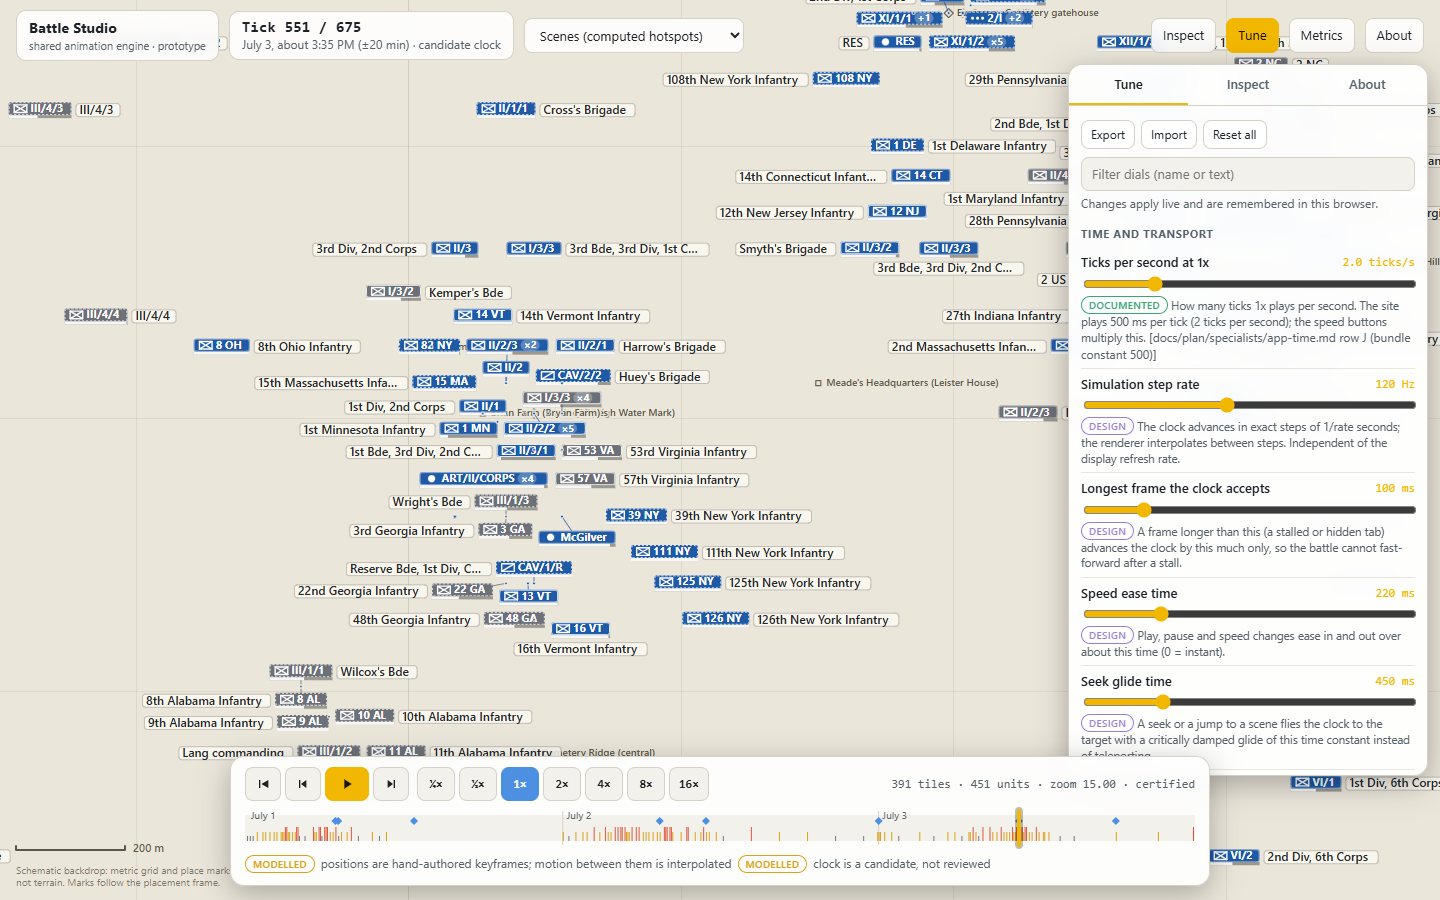
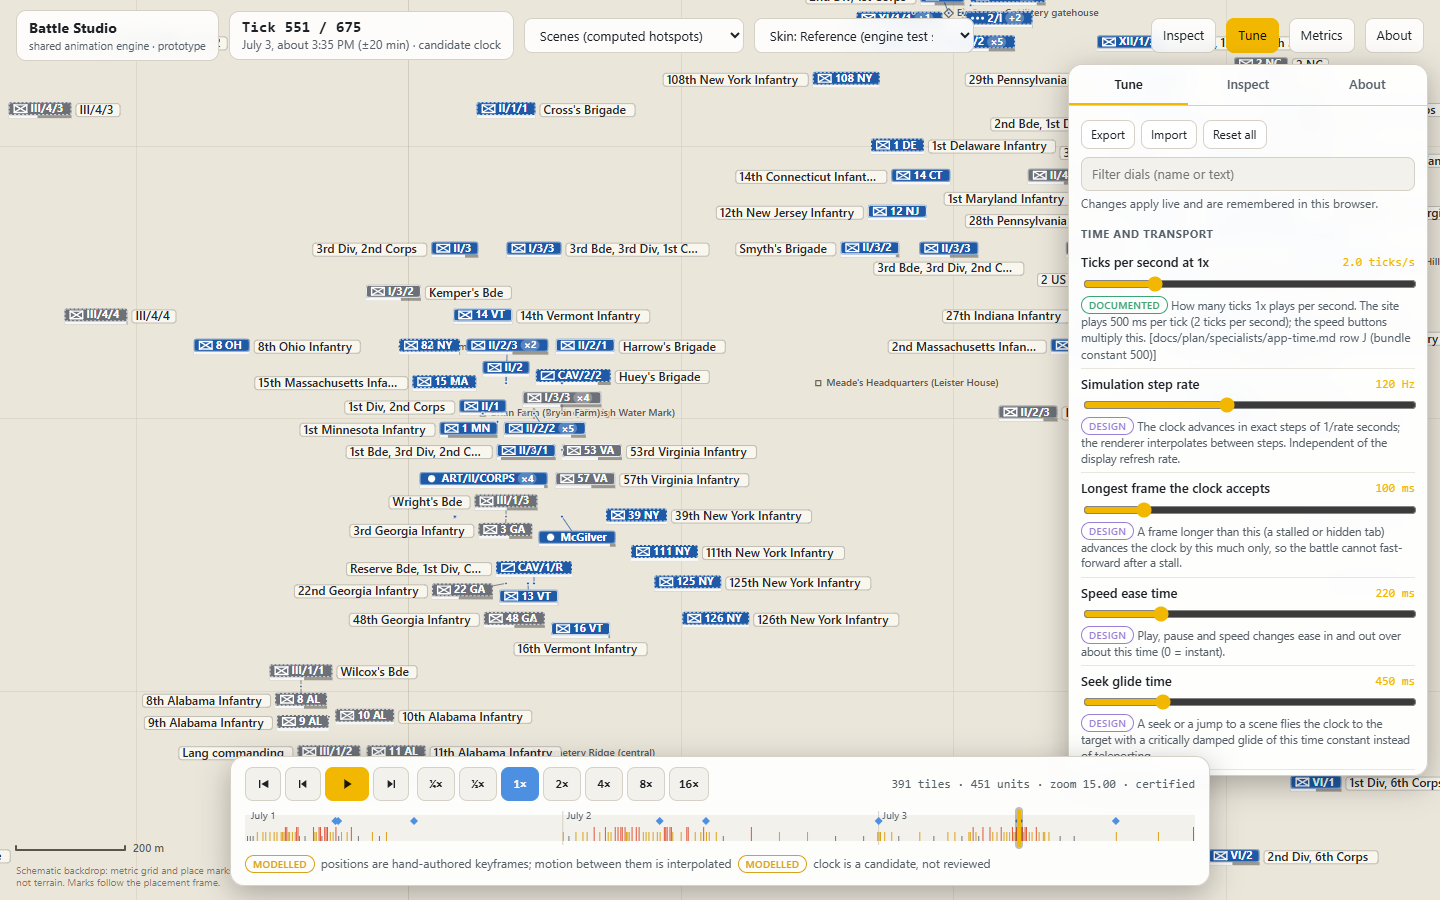
pitch-anim prototype: soak and monkey tests, skin switch, popup template with reading-time cards, stuck-tile guard, README numbers

Changed region(s): [[0.5, 0.0, 0.6875, 0.0622]]

diff --git a/docs/pitch/anim/prototype/battle-studio.html b/docs/pitch/anim/prototype/battle-studio.html
@@ -26,7 +26,8 @@ html, body { margin: 0; height: 100%; background: var(--bg); color: var(--text);
 button, select, input { font: inherit; color: inherit; }
 button { cursor: pointer; }
 :focus-visible { outline: 2px solid var(--accent); outline-offset: 2px; border-radius: 6px; }
-#app { position: fixed; inset: 0; }
+#app { position: fixed; inset: 0; user-select: none; -webkit-user-select: none; }
+.pane, #metrics, .scrubtip { user-select: text; -webkit-user-select: text; }
 #map { position: absolute; inset: 0; display: block; touch-action: none; cursor: grab; outline: none; }
 #map.dragging { cursor: grabbing; } #map.over-tile { cursor: pointer; }
 #popups { position: absolute; inset: 0; pointer-events: none; }
@@ -105,6 +106,7 @@ select.btn { padding-right: 24px; max-width: 220px; }
   #topbar { flex-wrap: wrap; gap: 6px; padding: 8px var(--gutter); }
   .brand, .spacer, .dockstat { display: none; }
   .clockbox { flex: 1 1 100%; padding: 5px 10px; } .clockbox .tick { font-size: 14px; }
+  #topbar select.skin-sel { display: none; }
   #topbar select.btn { flex: 1 1 0; min-width: 0; padding: 6px 22px 6px 8px; font-size: 12px; max-width: none; }
   #topbar .btn:not(select) { padding: 6px 9px; font-size: 12px; }
   #dock { bottom: 8px; padding: 8px 10px 9px; width: calc(100% - 2 * var(--gutter)); }
@@ -1257,10 +1259,12 @@ class Display {
       if (d.life === 'live' && !still) {
         const dist = Math.hypot(d.tx - d.ox, d.ty - d.oy);
         if (!d.dim && dist > travelPx) { d.dim = true; stats.travels++; }
-        if (d.dim && dist < 1.2 && d.mv <= dimOp + 1e-6 && !this._blocked(d, spec)) d.dim = false;
+        if (d.dim && dist < 1.2 && d.mv <= dimOp + 1e-6) {                                       // arrived: solidify as soon as nothing solid is in the way
+          if (!this._blocked(d, spec)) d.dim = false; else { d.waitMs = (d.waitMs || 0) + dtMs; if (d.waitMs > 400) d.dim = false; }   // a blocker that never leaves is pushed or repaired, not waited for
+        } else d.waitMs = 0;
         if (d.dim) d.mv = Math.max(dimOp, d.mv - dt * (1 - dimOp) / (DIM_MS / 1000));
         else d.mv = Math.min(1, d.mv + dt / (RAMP_MS / 1000));
-      } else d.mv = 1;
+      } else { d.mv = 1; d.dim = false; }
       d.opacity = base * d.mv;
       if (d.life === 'live' && d.dim && d.opacity >= SOLID) moving = false;          // a solid tile that decides to travel first dims below 0.5, then moves
       d.scale = (d.born || d.life === 'dying') ? birthScale + (1 - birthScale) * clamp01(base) : 1;
@@ -2345,7 +2349,7 @@ function createEngine(o) {
     camStep(dtSec);
     const zoom = camera.zoom;
     const first = E.frames === 0;
-    const cut = forceCut || (!first && (Math.abs(transport.simTau - prevTau) > tok('motion.cutTickJump') || Math.abs(zoom - prevZoom) > tok('motion.cutZoomJump')));
+    const cut = forceCut || (!first && ((Math.abs(transport.simTau - prevTau) > tok('motion.cutTickJump') && !transport.gliding) || Math.abs(zoom - prevZoom) > tok('motion.cutZoomJump')));
     forceCut = false; prevTau = transport.simTau; prevZoom = zoom;
     if (cut) { layoutMod.reset(); lastL = null; }
     const vis = battle.visibleAt(tau);
@@ -2507,6 +2511,9 @@ function createStudioUI({ root, engine, data, onSafe }) {
   // ---- top bar -------------------------------------------------------------------------------------------------------------------------------
   const sceneSel = h('select', { class: 'btn', 'aria-label': 'Jump to a scene', onchange: () => { const s = data.scenes.find((x) => x.id === sceneSel.value); if (s) { onSafe && onSafe(); engine.sceneJump(s); engine.select(null); } sceneSel.value = ''; } },
     h('option', { value: '' }, 'Scenes (computed hotspots)'), ...data.scenes.map((s) => h('option', { value: s.id }, `${s.name} · tick ${s.tick}`)));
+  const skinSel = h('select', { class: 'btn skin-sel', 'aria-label': 'Skin', title: 'Skin: the registry of tile designs (Tune > Skin has the same switch)', onchange: () => { try { tuning.set('skin.id', skinSel.value); } catch (e) { ui.status = String(e.message); } } });
+  const syncSkins = () => { skinSel.replaceChildren(...kernel.skins.list().map((k) => h('option', { value: k.id, selected: k.id === tok('skin.id') }, 'Skin: ' + k.label))); if (!kernel.skins.size) skinSel.append(h('option', { value: '' }, 'Skin: none registered')); };
+  kernel.skins.subscribe(syncSkins); tuning.on('skin.id', syncSkins); syncSkins();
   el.tick = h('div', { class: 'tick' }, 'Tick 1 / 675'); el.clock = h('div', { class: 'clock' }, '');
   el.btnTune = h('button', { class: 'btn', 'aria-pressed': 'false', title: 'Tuning Studio (T)', onclick: () => togglePanel('tune') }, 'Tune');
   el.btnInspect = h('button', { class: 'btn', 'aria-pressed': 'false', title: 'Inspector (I)', onclick: () => togglePanel('inspect') }, 'Inspect');
@@ -2514,7 +2521,7 @@ function createStudioUI({ root, engine, data, onSafe }) {
   el.btnAbout = h('button', { class: 'btn', 'aria-pressed': 'false', title: 'Legend and honesty (A)', onclick: () => togglePanel('about') }, 'About');
   const topbar = h('header', { id: 'topbar' },
     h('div', { class: 'brand' }, h('b', null, 'Battle Studio'), h('span', null, 'shared animation engine · prototype')),
-    h('div', { class: 'clockbox', 'aria-live': 'off' }, el.tick, el.clock), sceneSel, h('div', { class: 'spacer' }), el.btnInspect, el.btnTune, el.btnMetrics, el.btnAbout);
+    h('div', { class: 'clockbox', 'aria-live': 'off' }, el.tick, el.clock), sceneSel, skinSel, h('div', { class: 'spacer' }), el.btnInspect, el.btnTune, el.btnMetrics, el.btnAbout);
 
   // ---- dock ----------------------------------------------------------------------------------------------------------------------------------
   el.play = h('button', { class: 'tbtn play', 'aria-label': 'Play', title: 'Play / pause (Space)', onclick: () => transport.toggle() }, svgIcon(ICON.play));
@@ -2679,7 +2686,7 @@ function createStudioUI({ root, engine, data, onSafe }) {
     el.play.setAttribute('aria-label', t.playing ? 'Pause' : 'Play'); const want = t.playing ? 'pause' : 'play'; if (el.play.dataset.state !== want) { el.play.dataset.state = want; el.play.replaceChildren(svgIcon(ICON[want])); }
     if (!ui.scrubbing) el.range.value = String(t.target ?? t.simTau);
     for (const b of speedBtns) b.setAttribute('aria-pressed', String(+b.dataset.speed === t.speed));
-    if (now - (ui._lastStat || 0) > 250) { ui._lastStat = now; el.dockstat.textContent = `${frame.tiles.filter((q) => q.life === 'live').length} tiles · ${frame.onField} units · zoom ${frame.zoom.toFixed(2)} · ${engine.kernel.layout.has(tok('layout.strategy')) ? tok('layout.strategy') : ''}`; const map = document.getElementById('map'); if (map) map.setAttribute('aria-label', `Schematic map of the Gettysburg battle: tick ${frame.tick} of 675, ${frame.clock.date}, about ${frame.clock.text} on a candidate clock; ${frame.onField} units shown as ${frame.tiles.filter((q) => q.life === 'live').length} tiles.`); }
+    if (now - (ui._lastStat || 0) > 250) { ui._lastStat = now; const zs = rowRefs.get('camera.zoom'); if (zs) zs(tok('camera.zoom')); el.dockstat.textContent = `${frame.tiles.filter((q) => q.life === 'live').length} tiles · ${frame.onField} units · zoom ${frame.zoom.toFixed(2)} · ${engine.kernel.layout.has(tok('layout.strategy')) ? tok('layout.strategy') : ''}`; const map = document.getElementById('map'); if (map) map.setAttribute('aria-label', `Schematic map of the Gettysburg battle: tick ${frame.tick} of 675, ${frame.clock.date}, about ${frame.clock.text} on a candidate clock; ${frame.onField} units shown as ${frame.tiles.filter((q) => q.life === 'live').length} tiles.`); }
     drawMetrics(now);
     if (ui.panelOpen && ui.tab === 'about') { const ab = el.pane.querySelector('#ab-ov'); if (ab) ab.textContent = String(engine.metrics.overlapPairs ?? 0); }
   };
@@ -2704,7 +2711,7 @@ __defs["src/popups/host.mjs"] = function (__exports, __r) {
 //     update(frame, api) -> [card]        called every frame; returns the cards that should be visible NOW
 //   })
 //   card = { key, anchor?: { tileKey } | { unitId } | { x, y } (screen px), size: { w, h }, priority?: number, render?(el) | html?: string, ttlMs?: number }
-//   api  = { tok, nowMs, viewport: { w, h }, tileRect(keyOrUnitId) -> {x0,y0,x1,y1}|null, obstacles: [{x0,y0,x1,y1}] }
+//   api  = { tok, nowMs (wall clock, ms), data (the dataset: events, vignettes, clock ...; read-only), viewport: { w, h }, tileRect(keyOrUnitId) -> {x0,y0,x1,y1}|null, obstacles: [{x0,y0,x1,y1}] }
 const { Hash } = __r("src/layout/geom.mjs");
 const { dampStep2 } = __r("src/interp/damp.mjs");
 
@@ -2750,7 +2757,7 @@ function placeCard({ w, h, anchor = null, obstacles, viewport, margin = 10, gap 
 function createPopupHost(engine) {
   const placed = new Map();       // key -> { x, y, vx, vy, tx, ty, w, h, born }
   const api = (frame, nowMs) => ({
-    tok: engine.tok, nowMs, viewport: { w: frame.view.w, h: frame.view.h }, obstacles: frameObstacles(frame),
+    tok: engine.tok, nowMs, data: engine.battle.ds, viewport: { w: frame.view.w, h: frame.view.h }, obstacles: frameObstacles(frame),
     tileRect(k) {
       const t = frame.tiles.find((q) => q.key === k || q.ids.includes(k)); if (!t) return null;
       const hw = t.w * t.scale / 2; const hh = t.h * t.scale / 2; return { x0: t.x + frame.view.dx - hw, y0: t.y + frame.view.dy - hh, x1: t.x + frame.view.dx + hw, y1: t.y + frame.view.dy + hh };

diff --git a/docs/pitch/anim/prototype/src/ui/studio.css b/docs/pitch/anim/prototype/src/ui/studio.css
@@ -18,7 +18,8 @@ html, body { margin: 0; height: 100%; background: var(--bg); color: var(--text);
 button, select, input { font: inherit; color: inherit; }
 button { cursor: pointer; }
 :focus-visible { outline: 2px solid var(--accent); outline-offset: 2px; border-radius: 6px; }
-#app { position: fixed; inset: 0; }
+#app { position: fixed; inset: 0; user-select: none; -webkit-user-select: none; }
+.pane, #metrics, .scrubtip { user-select: text; -webkit-user-select: text; }
 #map { position: absolute; inset: 0; display: block; touch-action: none; cursor: grab; outline: none; }
 #map.dragging { cursor: grabbing; } #map.over-tile { cursor: pointer; }
 #popups { position: absolute; inset: 0; pointer-events: none; }
@@ -97,6 +98,7 @@ select.btn { padding-right: 24px; max-width: 220px; }
   #topbar { flex-wrap: wrap; gap: 6px; padding: 8px var(--gutter); }
   .brand, .spacer, .dockstat { display: none; }
   .clockbox { flex: 1 1 100%; padding: 5px 10px; } .clockbox .tick { font-size: 14px; }
+  #topbar select.skin-sel { display: none; }
   #topbar select.btn { flex: 1 1 0; min-width: 0; padding: 6px 22px 6px 8px; font-size: 12px; max-width: none; }
   #topbar .btn:not(select) { padding: 6px 9px; font-size: 12px; }
   #dock { bottom: 8px; padding: 8px 10px 9px; width: calc(100% - 2 * var(--gutter)); }

diff --git a/docs/pitch/anim/prototype/README.md b/docs/pitch/anim/prototype/README.md
@@ -15,6 +15,8 @@ Open the file in Chrome, Edge or Firefox. `?tune=1` opens the Tuning Studio, `T`
 | Aggregate counts (`x5`), tile ages, scenes | computed here | **Computed** |
 | Backdrop | a metric grid and the 30 place marks of `terrain.json` | **schematic, not terrain**; Mapbox tiles are token-restricted |
 
+The whole battle is inlined (the brief allowed a window of ticks around the hotspots): the placements are only about 450 KB in this form, and a window would have cut the carried-forward history that the visibility rule needs.
+
 The place marks follow the frame of the placements (legacy `terrain.json`). Production `terrain.json` puts 8 of the 30 places 166 to 733 m elsewhere (computed in `data/build-dataset.mjs`, stored in the dataset); those 8 are drawn dashed and which frame is right is **Unknown**. `Gulp's Hill saddle` is shown as `Gulp's Hill saddle [sic]`: the source record's own text says Culp's Hill.
 
 ## 2. Architecture: one straight pipeline, no second code path
@@ -45,6 +47,7 @@ Measured with `node --test "docs/pitch/anim/prototype/test/*.test.mjs"` (`FULL=1
 
 - **4,725 cold solves** (all 675 ticks x zoom 11..17, carry-forward = the worst case): **0 overlapping pairs, 0 clearance violations, 0 unrepresented units, budget kept**; 1,576,932 unit-placements represented; slowest solve 124 ms (run on the final code, 3 min 13 s; the default `node --test` re-checks 242 solves plus 600 warm playback frames).
 - Playback of the six hardest scenes at 1x to 16x, with irregular frame times (5 to 45 ms), seeks, cuts, zoom animation, mode switches and reduced motion: **0 overlapping frames, 0 unrepresented units**.
+- A seeded **monkey test** (`test/fuzz.test.mjs`) drives the whole API with random play, pause, speed, seeks (glided and not), zoom, pan, selection, viewport sizes, scene jumps and random legal values of every dial, and checks on every frame: no exception, no overlap, no lost unit, unique keys, finite numbers, no tile stuck dimmed. A 30-seed run of 500 actions each (15,000 random actions, 11.8 min) passed on the code before the last guard was added, and 12 seeds x 500 actions (3.6 min) pass on the final code including the stuck-tile check; the default `node --test` runs 3 seeds x 220 actions.
 - The checkers are themselves checked: the verifier equals a brute force on 3,000 random sets and catches injected overlaps; `nearestFree` equals a fine brute-force scan on 150 scenes; a negative control (net off, pushing off) shows overlaps appear without the safety net.
 
 ## 4. The jitter: what it was, what changed, what is measured
@@ -78,11 +81,11 @@ The shipped renderer's causes (01-current-tiles-jitter.md) and what replaces the
 
 (pop = a tile that is solid in two frames and moves more than 3 px beyond its unit's own motion in one frame; teleport = more than 12 px; **snap** is the certified layout drawn as solved, the research lab's behaviour. A dimmed travelling tile is counted under "travels", it is not solid.) Honest reading: teleports are gone; what is left at 4x in the densest scene is a few smooth shoves per second and about ten dimmed glides per second (a lone tile at 0.42 opacity crossing a neighbour for about 150 ms), and the safety net dims a tile about five times per second. That is **not zero visual activity**; it is no hop, no overlap, no hidden unit, and every number is on screen in the metrics overlay.
 
-Real Chrome 155 (headless, this machine, 10 s each, `test/browser-check.mjs`; the JSON of every run is in `results/chrome-*.json`): **60 fps, 0 frames over 20 ms, 0 overlaps, 0 unrepresented units, 0 console errors, 0 requests** on `fresh2` at 4x (about 400 tiles, engine 6.7 ms per frame), `evening1` at 16x (4.4 ms), `field` at 4x (478 units, 5.8 ms) and `carry1` at 1x (5.9 ms). Under a **4x CPU throttle** (a harsh stand-in for a mid phone, not a phone) the same page on `fresh2` runs at 27 fps with the automatic solve cadence solving 46 % of the frames, still with 0 overlaps and 0 unrepresented units; without the cadence it ran at 14 fps. A real low-end phone was not tested.
+Real Chrome 155 (headless, this machine, 10 s each, `test/browser-check.mjs`; the JSON of every run is in `results/chrome-*.json`): **60 fps, 0 frames over 20 ms, 0 overlaps, 0 unrepresented units, 0 console errors, 0 requests** on `fresh2` at 4x (about 400 tiles, engine 6.7 ms per frame), `evening1` at 16x (4.4 ms), `field` at 4x (478 units, 5.8 ms) and `carry1` at 1x (5.9 ms). Under a **4x CPU throttle** (a harsh stand-in for a mid phone, not a phone) the same page on `fresh2` runs at 27 fps with the automatic solve cadence solving 46 % of the frames, still with 0 overlaps and 0 unrepresented units; without the cadence it ran at 14 fps. A **100 s soak** (`test/soak.mjs`: the real frame loop at 8x, a scene jump every 30 s, 6,003 frames): JS heap flat at 22 MB after a forced GC at every sample (0.0 MB growth), 59.8 fps, 0.35 % of frames over 20 ms, 0 overlaps, 0 unrepresented units, 0 console errors. A real low-end phone was not tested.
 
 ## 5. Extending it
 
-Everything below is exercised in `test/extend.test.mjs`, which is the worked example. The page registers what is listed in `src/skins/index.mjs`, `src/popups/index.mjs` and `src/fx/index.mjs`: **adding a module = one import and one array entry there, then `node build.mjs`**. `src/skins/_template.mjs` is a complete minimal skin to copy (the tests run the conformance check on it).
+Everything below is exercised in `test/extend.test.mjs`, which is the worked example. The page registers what is listed in `src/skins/index.mjs`, `src/popups/index.mjs` and `src/fx/index.mjs`: **adding a module = one import and one array entry there, then `node build.mjs`**. `src/skins/_template.mjs` is a complete minimal skin to copy (the tests run the conformance check on it) and `src/popups/_template.mjs` a complete minimal popup (chronology event cards that stay for reading time in wall-clock seconds instead of ticks, placed in free space; tested).
 
 - **A skin** (how a tile looks): `kernel.skins.register('my-skin', { footprint?, fonts?, draw: { tile, label?, pin?, leader?, hull? }, legend? })`. `skins/contract.mjs` documents the contract: draw a box centred on (0,0), size `t.w x t.h`, nothing outside it, a 2 px ring reserved for selection. **Run `checkSkin(skin, spec, tiles, textModel)` in your skin's test**: it records the ink of every draw call and fails when a tile paints outside its footprint (the layout guarantee is about that box). A different `footprint` (chip height, glyph width ...) simply changes how much aggregates; the guarantee holds for any footprint. A skin that declares `fonts` makes the layout measure those fonts. Honesty rules a skin keeps: every channel it draws is backed by a field of the tile; Modelled must not look Documented; side `unknown` must not look like a side; an aggregate shows its count.
 - **A popup**: `kernel.popups.register('my-popup', { update(frame, api) -> [{ key, anchor: { tileKey | unitId | x,y }, size: { w, h }, render(el) | html, priority }] })`. The host (`popups/host.mjs`) places each card in **free space** (over no solid chip, label or pin; tested on 300 placements of real frames), joins it to its anchor with a leader line, keeps it still while it stays free and glides it when blocked. `frameObstacles(frame)` is the tile frame a popup needs; the popup track decides what happens when no room exists (placement returns null).
@@ -93,10 +96,11 @@ Everything below is exercised in `test/extend.test.mjs`, which is the worked exa
 ## 6. Commands
 
 ```
-node --test "docs/pitch/anim/prototype/test/*.test.mjs"      all tests (81 tests, about 70 s)   FULL=1 adds the exhaustive layout sweep (about 3 min)
+node --test "docs/pitch/anim/prototype/test/*.test.mjs"      all tests (85 tests, about 70 s)   FULL=1 adds the exhaustive layout sweep (about 3 min)   FUZZ_SEEDS=30 FUZZ_ACTIONS=500 for a long monkey run
 node docs/pitch/anim/prototype/build.mjs [--data] [--check] [--min]   dataset (--data) -> tokens.schema.json -> battle-studio.html
 node docs/pitch/anim/prototype/test/browser-check.mjs --scene=fresh2 --zoom=15 --speed=4 --secs=6 [--cpu=4] [--viewport=390x844 --dpr=2]   real Chrome: errors, requests, fps, metrics
 node docs/pitch/anim/prototype/test/browser-interact.mjs     real Chrome: click, keys, wheel, drag, scrubber, tuning, export/import, metrics, phone, reduced motion
+node docs/pitch/anim/prototype/test/soak.mjs [--secs=100]      real Chrome soak: heap after forced GC, frame pacing, guarantees
 node docs/pitch/anim/prototype/test/bench.mjs                motion matrix -> results/motion-matrix.json
 node docs/pitch/anim/prototype/test/trace.mjs                jitter trace -> shots/jitter-trace.svg
 node docs/pitch/anim/prototype/test/shots.mjs                screenshots of nine fixed states -> shots/
